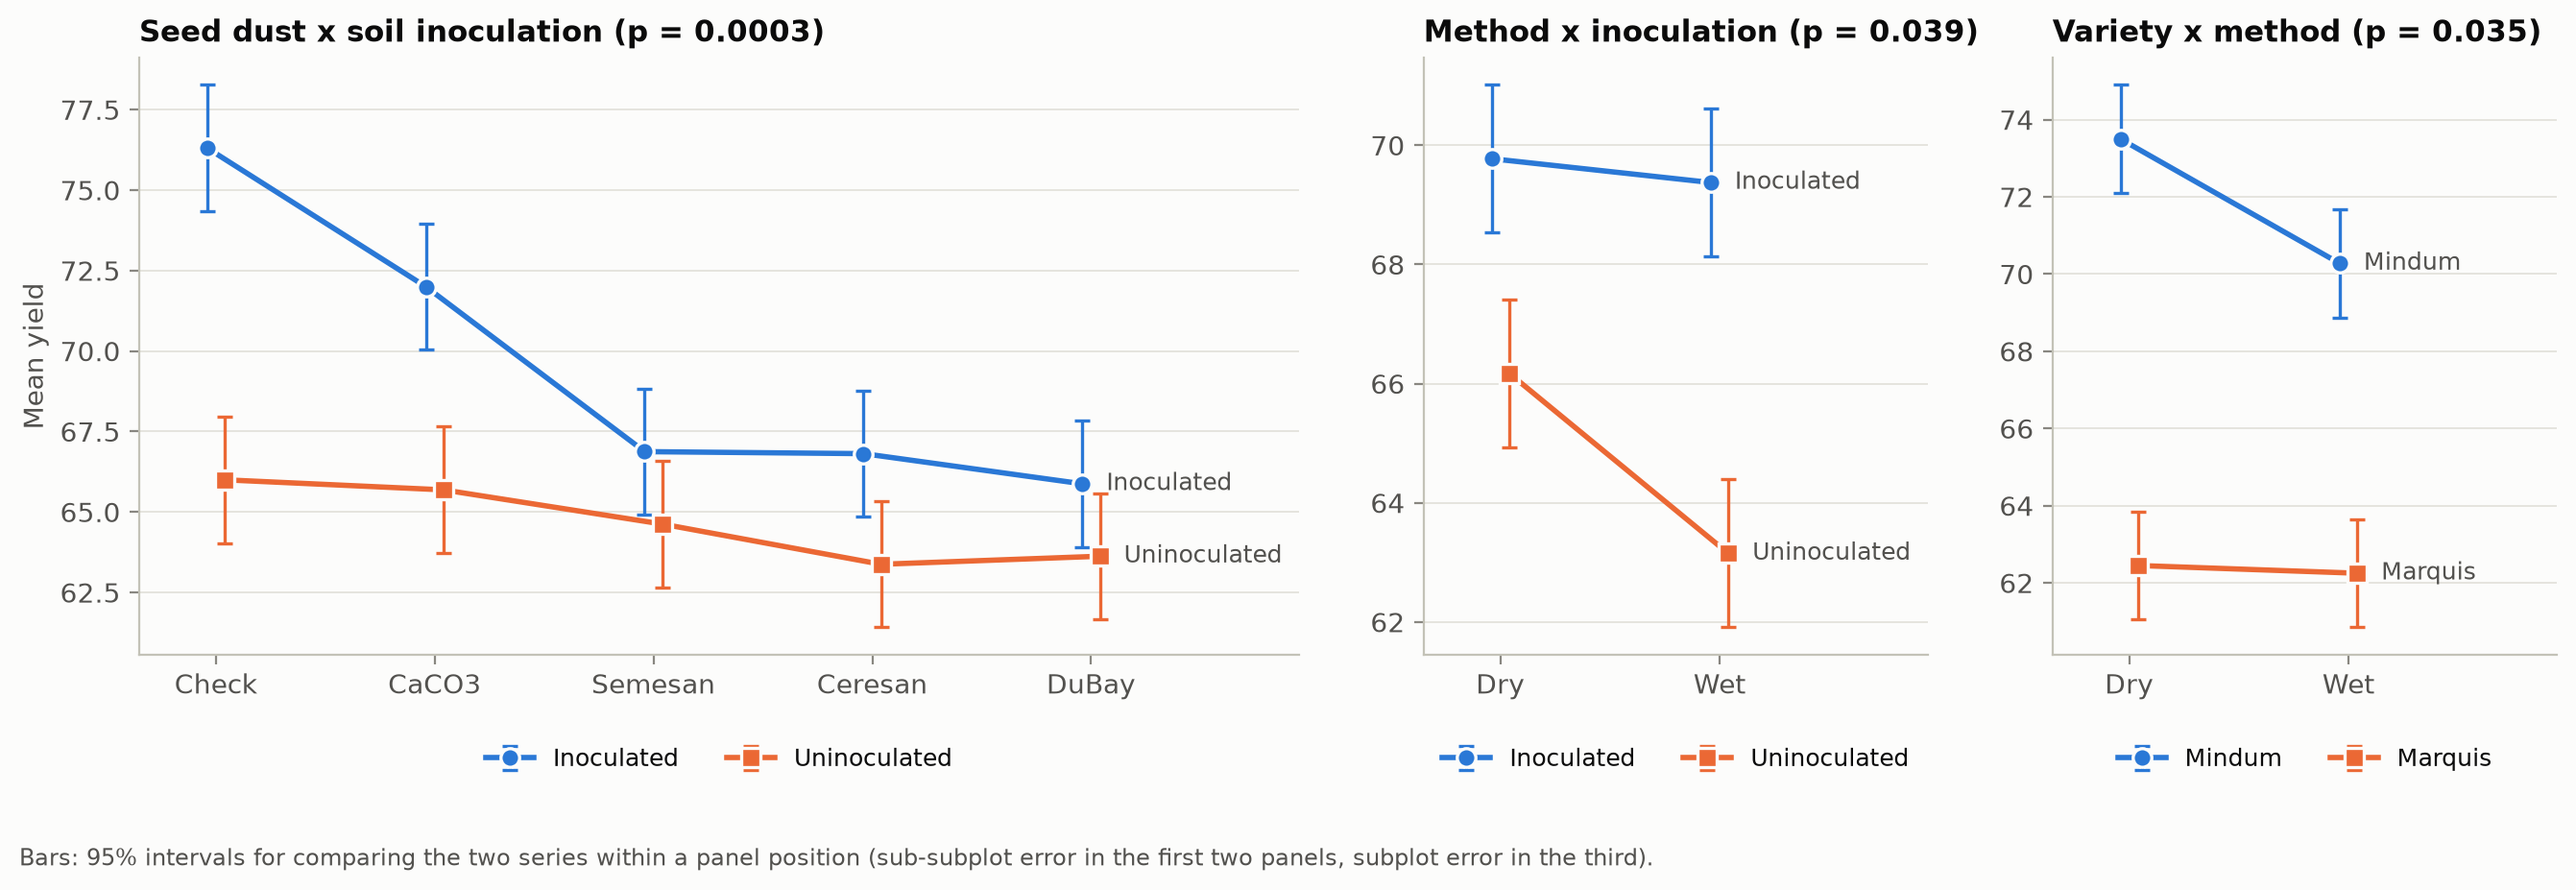
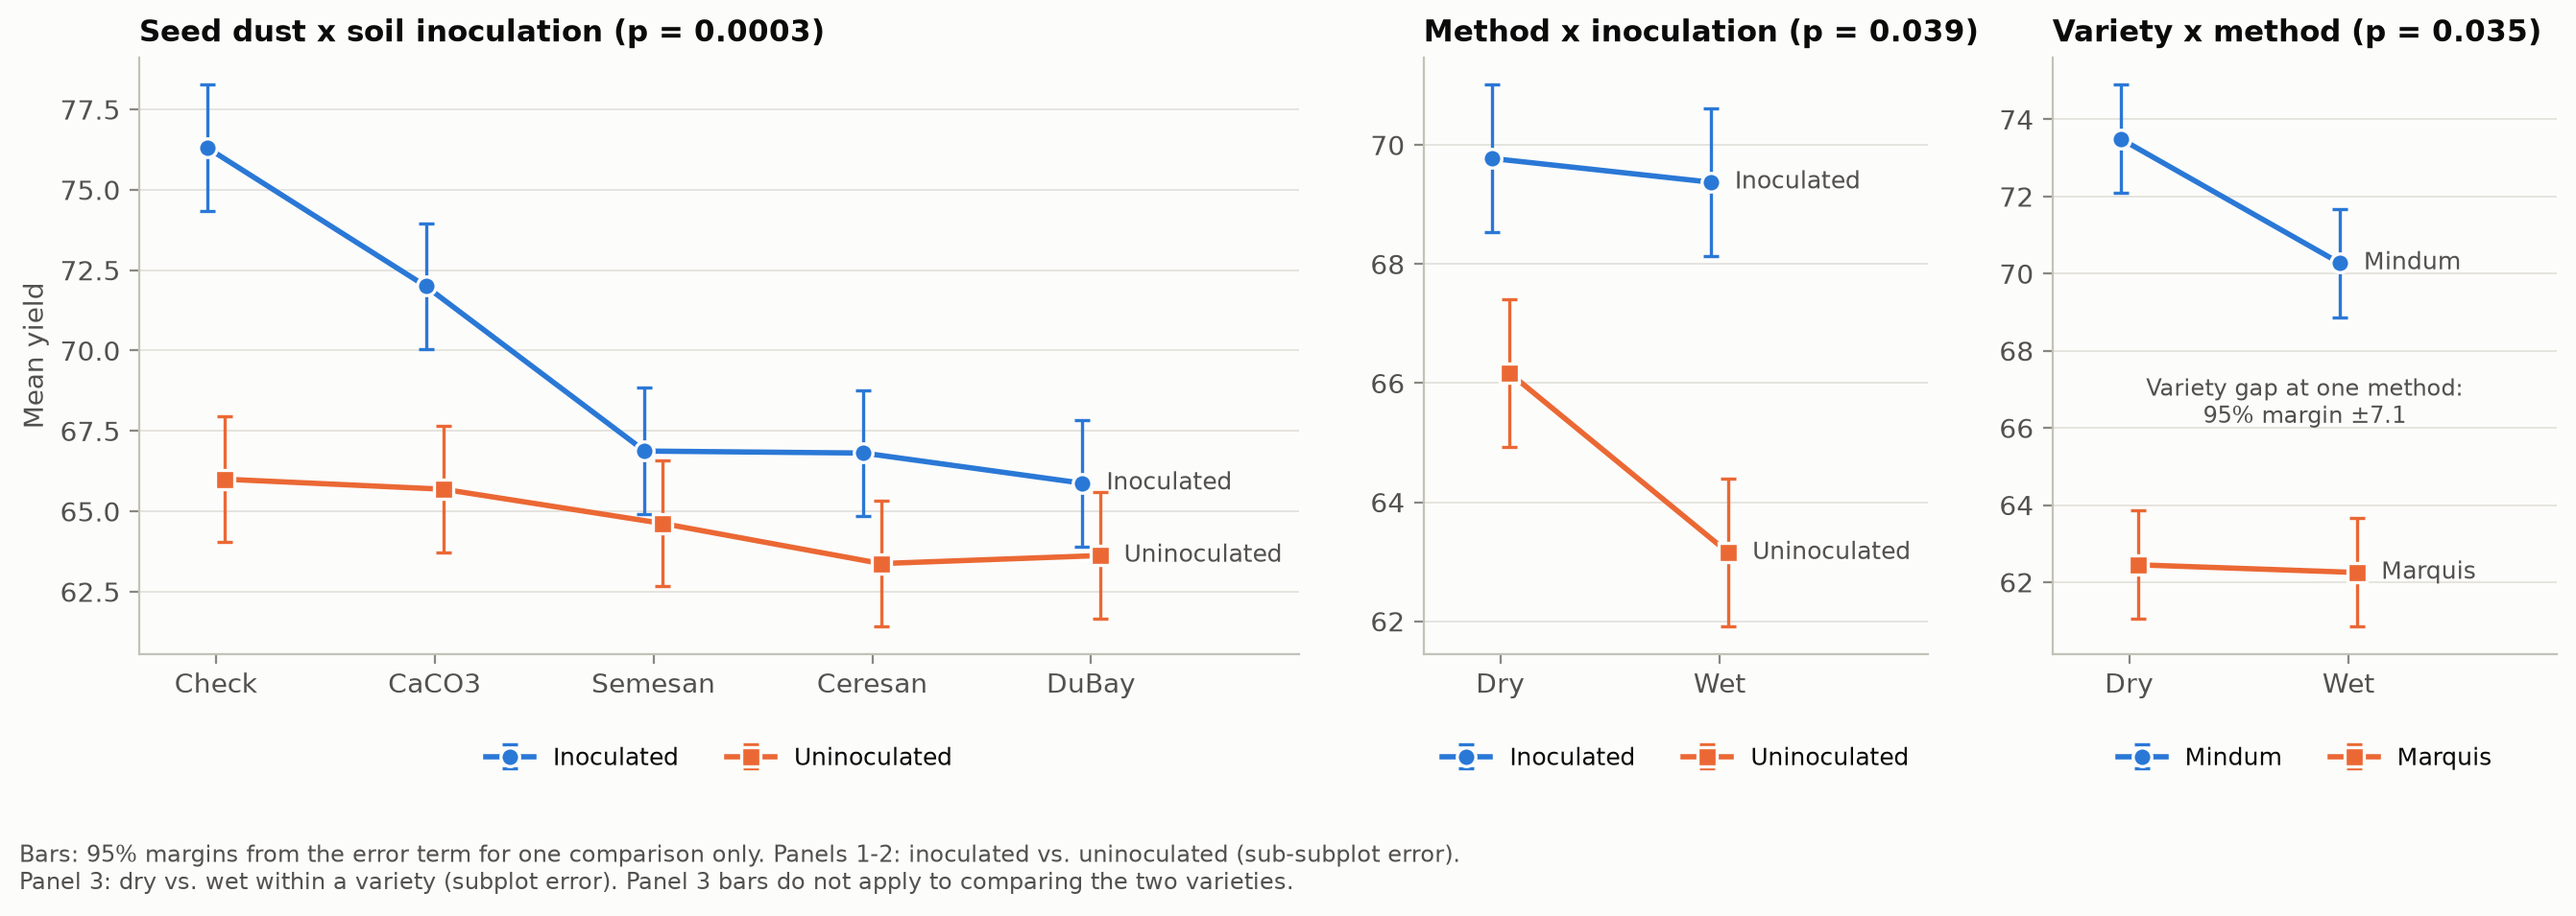
Improvements

diff --git a/analysis.py b/analysis.py
@@ -24,6 +24,7 @@ import numpy as np
 import pandas as pd
 import patsy
 import statsmodels.formula.api as smf
+from statsmodels.stats.multitest import multipletests
 from matplotlib.colors import LinearSegmentedColormap
 from matplotlib.patches import Rectangle
 from scipy import stats
@@ -112,9 +113,14 @@ def anova(d):
     header("2. SPLIT-SPLIT-PLOT ANOVA (one error term per size of experimental unit)")
     a = strata_anova(d, "yield", FIXED, CHAIN, STRATA)
     a["Goulden_SS"] = a["term"].map(GOULDEN_SS)
+    # Holm adjustment over the 15 treatment F tests in the table
+    tested = a["p"].notna()
+    a["p_holm"] = np.nan
+    a.loc[tested, "p_holm"] = multipletests(a.loc[tested, "p"], method="holm")[1]
     show = a.copy()
     show["F"] = show["F"].map(lambda v: "" if np.isnan(v) else f"{v:.2f}")
     show["p"] = a["p"].map(lambda v: "" if np.isnan(v) else fmt_p(v))
+    show["p_holm"] = a["p_holm"].map(lambda v: "" if np.isnan(v) else fmt_p(v))
     show["sig"] = a["p"].map(lambda v: "" if np.isnan(v) else ("***" if v < .001 else "**" if v < .01 else "*" if v < .05 else ""))
     show["Goulden_SS"] = show["Goulden_SS"].map(lambda v: "" if np.isnan(v) else f"{v:.1f}")
     print(show.to_string(index=False, formatters={"SS": "{:.1f}".format, "MS": "{:.2f}".format}))
@@ -124,6 +130,9 @@ def anova(d):
     print(f"\ncheck against the published table: largest |SS - Goulden| over {len(chk)} lines = {worst:.2f}; "
           f"Error (3) + 4-factor interaction = {e3:.1f} (Goulden: 931.1)")
     assert worst < 0.15 and abs(e3 - 931.1) < 0.15, "ANOVA does not reproduce the published table"
+    held = a.loc[a["p_holm"] < 0.05, "term"].tolist()
+    print(f"terms with p < 0.05: {int((a['p'] < 0.05).sum())} of {int(tested.sum())}; "
+          f"still below 0.05 after the Holm adjustment: {', '.join(held)}")
     a.to_csv(OUT / "anova_table.csv", index=False)
     ms = a.set_index("term")["MS"]
     return a, {"blk": ms["Blocks"], 1: ms["Error (1)"], 2: ms["Error (2)"], 3: ms["Error (3)"]}, {1: 3, 2: 54, 3: 60}
@@ -131,7 +140,8 @@ def anova(d):
 
 # ======================================================================================= 3. mixed model
 def mixed_model(d, a, ms):
-    header("3. COMPARISON METHOD: LINEAR MIXED MODEL FITTED BY REML (statsmodels MixedLM)")
+    header("3. VALIDATION: LINEAR MIXED MODEL FITTED BY REML (statsmodels MixedLM)\n"
+           "Balanced data, so agreement with the ANOVA is expected. unequal_variance.R relaxes the equal-variance assumption.")
     f = "Q('yield') ~ C(gen, Sum)*C(dust, Sum)*C(dry, Sum)*C(inoc, Sum)"
     with warnings.catch_warnings():
         warnings.simplefilter("ignore")
@@ -290,6 +300,13 @@ def inference(d, ms, dfe):
     main = pd.DataFrame(out, columns=cols)
     print("\n5a. One-df main effects")
     print(main.to_string(index=False, float_format="{:.3f}".format, formatters={"p": fmt_p}))
+    # the variety F test has 3 error df, so show what the four blocks support without assuming normality
+    vb = d.groupby(["block", "gen"], observed=True)[y].mean().unstack()
+    vdiff = (vb["Mindum"] - vb["Marquis"]).values
+    flips = np.array(list(itertools.product([-1, 1], repeat=len(vdiff))))
+    p_flip = float(np.mean(np.abs((flips * vdiff).mean(1)) >= abs(vdiff.mean()) - 1e-9))
+    print("  Variety by block (Mindum - Marquis): " + "   ".join(f"{b}: {v:+.2f}" for b, v in zip(vb.index, vdiff)))
+    print(f"  Exact sign-flip test over the 4 blocks: p = {p_flip:.3f} (smallest possible value with 4 blocks: {2 / len(flips):.3f})")
 
     # --- dust main effect: Tukey HSD on the subplot error
     dm = m("dust").sort_values(ascending=False)
@@ -346,10 +363,27 @@ def inference(d, ms, dfe):
     print("\n5g. Method effect on untreated (Check) seed, where no dust was applied")
     print(pd.DataFrame([nc], columns=cols).to_string(index=False, float_format="{:.3f}".format, formatters={"p": fmt_p}))
 
+    # --- method effects among the plots that received a dust (error terms pooled from the full model)
+    ds = d[d.dust != "Check"]
+    n_cell = len(ds) / 4
+    w2 = ds.groupby("dry", observed=True)[y].mean()
+    c1 = ds.groupby(["gen", "dry"], observed=True)[y].mean().unstack()
+    c2 = ds.groupby(["dry", "inoc"], observed=True)[y].mean().unstack()
+    gm_int = (c1.loc["Mindum", "Dry"] - c1.loc["Mindum", "Wet"]) - (c1.loc["Marquis", "Dry"] - c1.loc["Marquis", "Wet"])
+    mi_int = (c2.loc["Wet", "Inoc"] - c2.loc["Wet", "Uninoc"]) - (c2.loc["Dry", "Inoc"] - c2.loc["Dry", "Uninoc"])
+    dusted = pd.DataFrame([
+        ci_row("Method: Dry - Wet", w2["Dry"] - w2["Wet"], np.sqrt(ms[2] / n_cell), dfe[2]),
+        ci_row("Variety x method: Dry-Wet gap, Mindum - Marquis", gm_int, np.sqrt(4 * ms[2] / n_cell), dfe[2]),
+        ci_row("Method x inoculation: Inoc-Uninoc gap, Wet - Dry", mi_int, np.sqrt(4 * ms[3] / n_cell), dfe[3]),
+    ], columns=cols)
+    print("\n5h. Method effects among the four dusts only (Check plots excluded, because they received no dust to apply)")
+    print(dusted.to_string(index=False, float_format="{:.3f}".format, formatters={"p": fmt_p}))
+
     allc = pd.concat([main.assign(family="main effects"), tuk.assign(family="dust Tukey HSD"),
                       di.assign(family="inoculation within dust"), dc.assign(family="check vs dust within soil"),
                       mi.assign(family="inoculation within method"), gm.assign(family="method within variety"),
-                      pd.DataFrame([nc], columns=cols).assign(family="negative control")])
+                      pd.DataFrame([nc], columns=cols).assign(family="negative control"),
+                      dusted.assign(family="method effects, dusted plots only")])
     allc.to_csv(OUT / "comparisons.csv", index=False)
     return dict(dust_means=dm, dust_letters=lets, se_dust=se_mean, dust_inoc=cell, method_inoc=cell2, gen_method=cell3)
 
@@ -409,10 +443,16 @@ def fig_effects(d, inf, ms, dfe):
     _two_series(axes[2], c.index, c["Mindum"].values, c["Marquis"].values, "Mindum", "Marquis",
                 t2 * np.sqrt(ms[2] / 40), list(c.index), "")
     axes[2].set_title("Variety x method (p = 0.035)")
+    # a variety difference within one method uses whole-plot and subplot error: Var = (MS1 + MS2)/40, Satterthwaite df
+    df_var = (ms[1] + ms[2]) ** 2 / (ms[1] ** 2 / dfe[1] + ms[2] ** 2 / dfe[2])
+    margin_var = stats.t.ppf(0.975, df_var) * np.sqrt((ms[1] + ms[2]) / 40)
+    axes[2].text(0.5, 0.42, f"Variety gap at one method:\n95% margin ±{margin_var:.1f}", transform=axes[2].transAxes,
+                 ha="center", va="center", fontsize=8.5, color=INK2)
     for ax in axes:
         ax.legend(loc="upper center", bbox_to_anchor=(0.5, -0.12), ncol=2, fontsize=9)
-    fig.text(0.01, -0.06, "Bars: 95% intervals for comparing the two series within a panel position "
-             "(sub-subplot error in the first two panels, subplot error in the third).", fontsize=8.5, color=INK2)
+    fig.text(0.01, -0.09, "Bars: 95% margins from the error term for one comparison only. Panels 1-2: inoculated vs. uninoculated "
+             "(sub-subplot error).\nPanel 3: dry vs. wet within a variety (subplot error). "
+             "Panel 3 bars do not apply to comparing the two varieties.", fontsize=8.5, color=INK2)
     fig.tight_layout()
     fig.savefig(OUT / "fig2_interactions.png", dpi=200, bbox_inches="tight")
     plt.close(fig)

diff --git a/doetools.py b/doetools.py
@@ -212,7 +212,7 @@ def boxcox_interval(y, X):
         return None
     M, _ = residual_maker(X)
     y = y / np.exp(np.mean(np.log(y)))  # geometric mean 1: the Jacobian term vanishes
-    lam = np.round(np.arange(-2, 2.0001, 0.05), 2)
+    lam = np.round(np.arange(-4, 8.0001, 0.05), 2)  # wide enough that the interval is not cut off by the grid
     ll = []
     for l in lam:
         z = M @ (np.log(y) if abs(l) < 1e-9 else (y**l - 1) / l)
